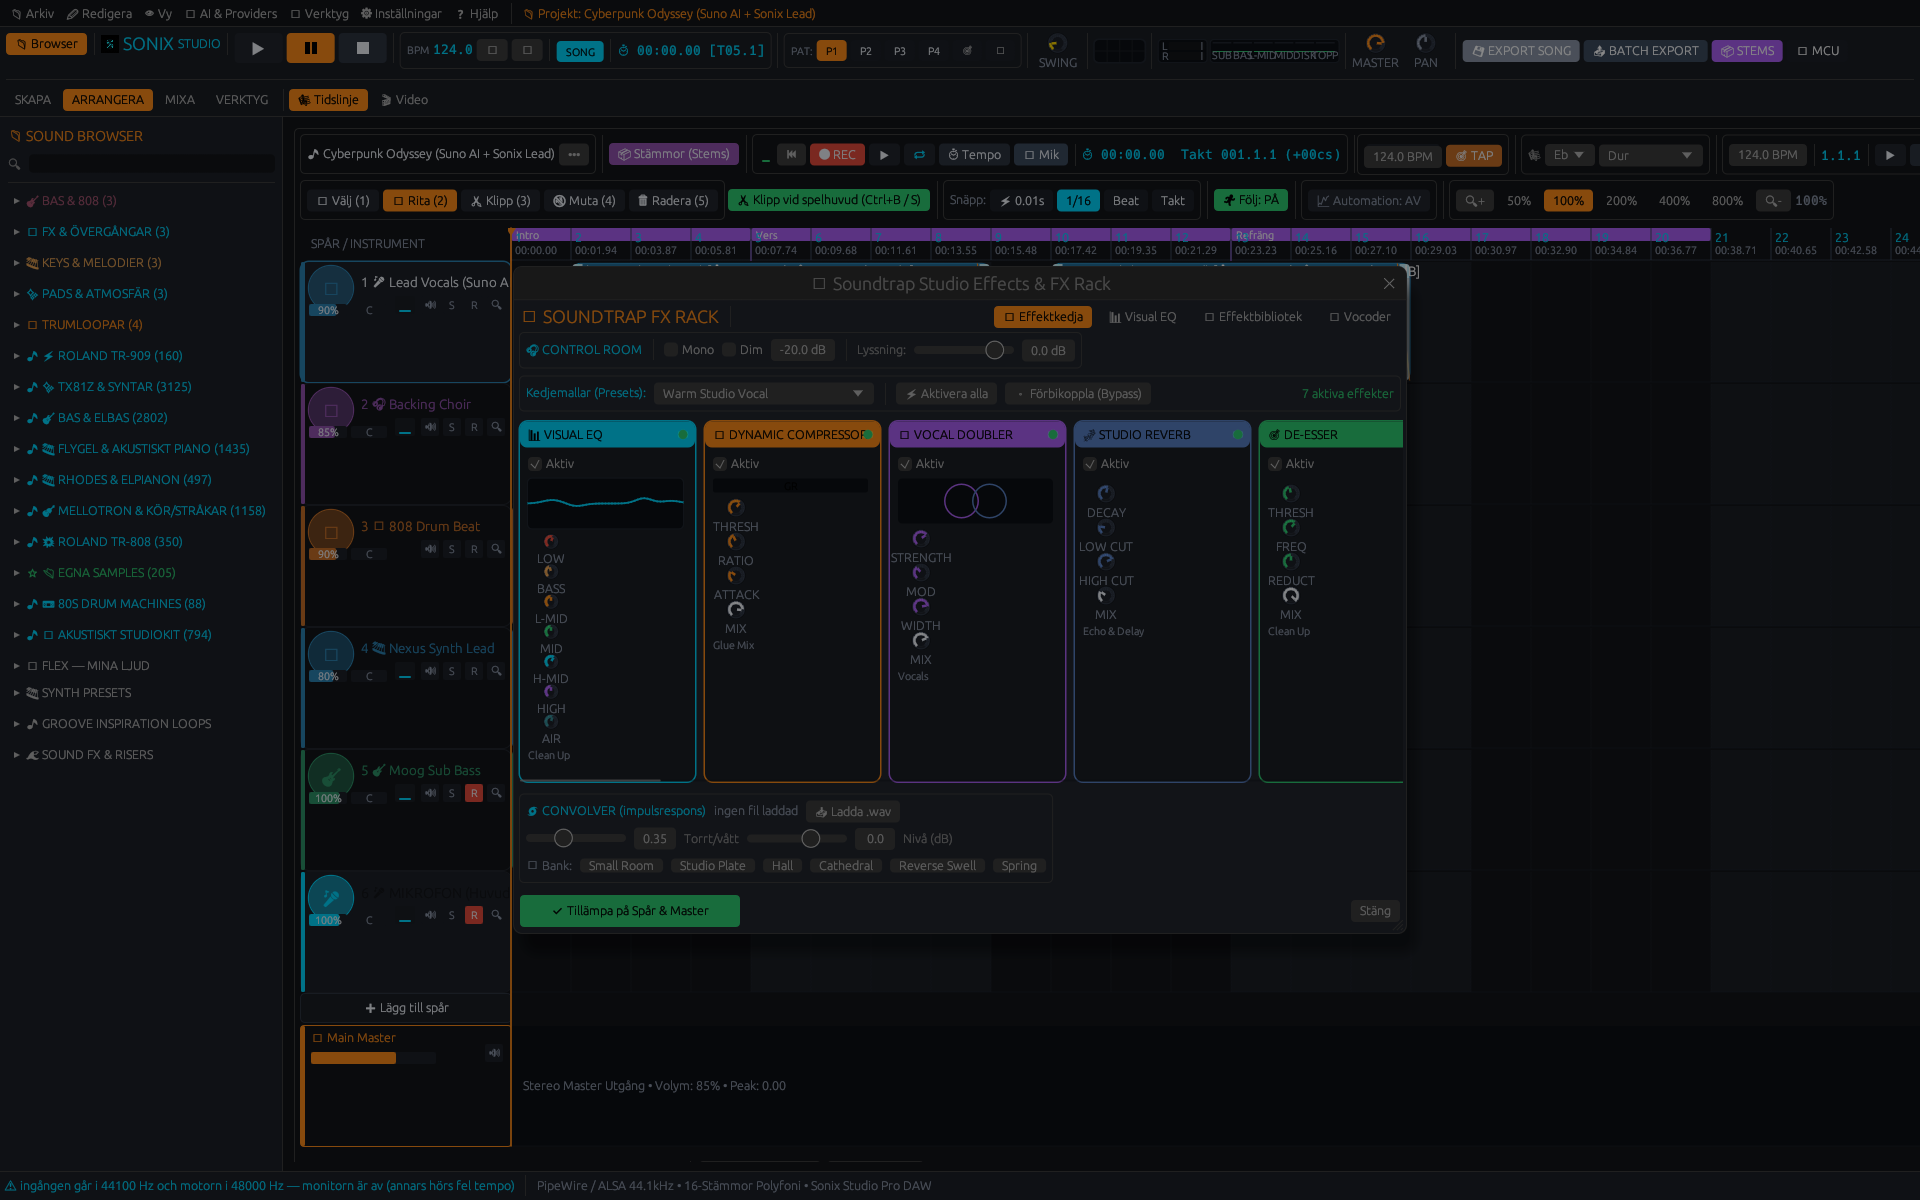
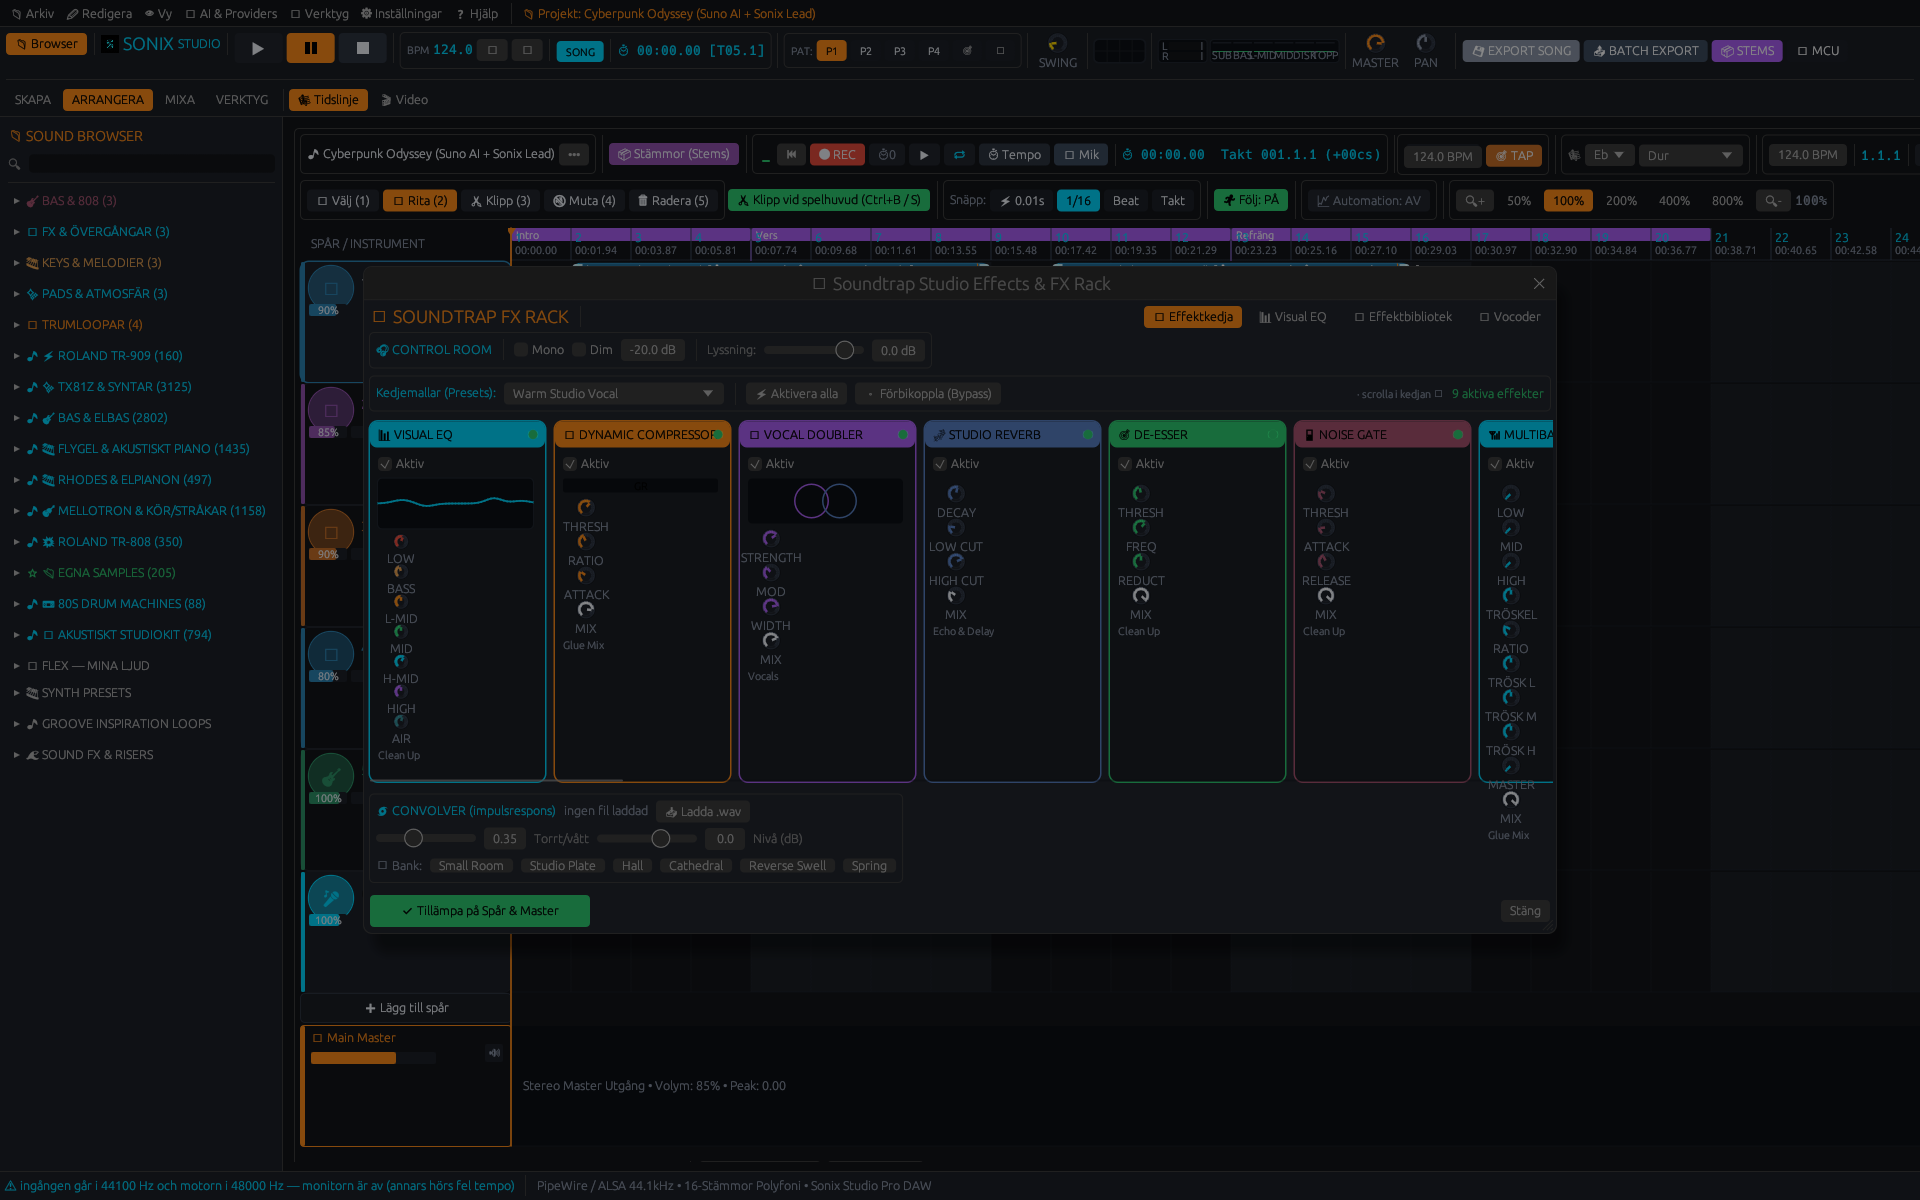
fix: pedalkedjan säger att den skrollar, och skärmdumpen visar de nya pedalerna (0.9.153)

diff --git a/src/i18n.rs b/src/i18n.rs
@@ -373,6 +373,7 @@ macro_rules! tstatus {
 // ====================================================================
 fn tr_en(key: &str) -> Option<&'static str> {
     Some(match key {
+        "· scrolla i kedjan →" => "· scroll the chain →",
         "🎵 Mät tempot i klippet" => "🎵 Measure the clip's tempo",
         "Läser takten ur ljudet och sätter klippets inspelningstempo, så att det följer projektets tempo. Krävs för klipp som importerades innan tempot mättes automatiskt." => "Reads the beat from the audio and sets the clip's recording tempo so it follows the project tempo. Needed for clips imported before tempo was measured automatically.",
         "🎚 Vocoder" => "🎚 Vocoder",
@@ -2867,6 +2868,7 @@ fn tr_en(key: &str) -> Option<&'static str> {
 // ====================================================================
 fn tr_da(key: &str) -> Option<&'static str> {
     Some(match key {
+        "· scrolla i kedjan →" => "· rul i kæden →",
         "🎵 Mät tempot i klippet" => "🎵 Mål klippets tempo",
         "Läser takten ur ljudet och sätter klippets inspelningstempo, så att det följer projektets tempo. Krävs för klipp som importerades innan tempot mättes automatiskt." => "Læser takten ud af lyden og sætter klippets indspilningstempo, så det følger projektets tempo. Kræves for klip importeret før tempoet blev målt automatisk.",
         "🎚 Vocoder" => "🎚 Vocoder",
@@ -5320,6 +5322,7 @@ fn tr_da(key: &str) -> Option<&'static str> {
 // ====================================================================
 fn tr_no(key: &str) -> Option<&'static str> {
     Some(match key {
+        "· scrolla i kedjan →" => "· rull i kjeden →",
         "🎵 Mät tempot i klippet" => "🎵 Mål tempoet i klippet",
         "Läser takten ur ljudet och sätter klippets inspelningstempo, så att det följer projektets tempo. Krävs för klipp som importerades innan tempot mättes automatiskt." => "Leser takten ut av lyden og setter klippets innspillingstempo, slik at det følger prosjektets tempo. Kreves for klipp importert før tempoet ble målt automatisk.",
         "🎚 Vocoder" => "🎚 Vocoder",
@@ -7773,6 +7776,7 @@ fn tr_no(key: &str) -> Option<&'static str> {
 // ====================================================================
 fn tr_de(key: &str) -> Option<&'static str> {
     Some(match key {
+        "· scrolla i kedjan →" => "· in der Kette scrollen →",
         "🎵 Mät tempot i klippet" => "🎵 Tempo des Clips messen",
         "Läser takten ur ljudet och sätter klippets inspelningstempo, så att det följer projektets tempo. Krävs för klipp som importerades innan tempot mättes automatiskt." => "Liest den Takt aus dem Audio und setzt das Aufnahmetempo des Clips, damit er dem Projekttempo folgt. Nötig für Clips, die vor der automatischen Messung importiert wurden.",
         "🎚 Vocoder" => "🎚 Vocoder",
@@ -10226,6 +10230,7 @@ fn tr_de(key: &str) -> Option<&'static str> {
 // ====================================================================
 fn tr_es(key: &str) -> Option<&'static str> {
     Some(match key {
+        "· scrolla i kedjan →" => "· desplaza la cadena →",
         "🎵 Mät tempot i klippet" => "🎵 Medir el tempo del clip",
         "Läser takten ur ljudet och sätter klippets inspelningstempo, så att det följer projektets tempo. Krävs för klipp som importerades innan tempot mättes automatiskt." => "Lee el pulso del audio y fija el tempo de grabación del clip para que siga el tempo del proyecto. Necesario para clips importados antes de que el tempo se midiera automáticamente.",
         "🎚 Vocoder" => "🎚 Vocoder",
@@ -12679,6 +12684,7 @@ fn tr_es(key: &str) -> Option<&'static str> {
 // ====================================================================
 fn tr_fr(key: &str) -> Option<&'static str> {
     Some(match key {
+        "· scrolla i kedjan →" => "· faites défiler la chaîne →",
         "🎵 Mät tempot i klippet" => "🎵 Mesurer le tempo du clip",
         "Läser takten ur ljudet och sätter klippets inspelningstempo, så att det följer projektets tempo. Krävs för klipp som importerades innan tempot mättes automatiskt." => "Lit le tempo dans l'audio et fixe le tempo d'enregistrement du clip pour qu'il suive le tempo du projet. Nécessaire pour les clips importés avant la mesure automatique.",
         "🎚 Vocoder" => "🎚 Vocoder",

diff --git a/src/ui/fx_rack_modal.rs b/src/ui/fx_rack_modal.rs
@@ -1152,7 +1152,7 @@ pub fn render_fx_rack_modal(
         .collapsible(false)
         .resizable(true)
         .anchor(egui::Align2::CENTER_CENTER, Vec2::ZERO)
-        .default_size(Vec2::new(880.0, 620.0))
+        .default_size(Vec2::new(1180.0, 680.0))
         .show(ctx, |ui| {
             ui.vertical(|ui| {
                 // ============================================================
@@ -1240,6 +1240,11 @@ pub fn render_fx_rack_modal(
                         ui.with_layout(egui::Layout::right_to_left(egui::Align::Center), |ui| {
                             let enabled_count = state.pedals.iter().filter(|p| p.enabled).count();
                             ui.label(egui::RichText::new(crate::tstatus!("{} aktiva effekter", enabled_count)).size(Theme::FONT_S).color(crate::ui::theme::palette().green()));
+                            // Kedjan är horisontell och rymmer inte nio pedaler i fönstret — säg det,
+                            // i stället för att låta resten se ut som att den inte finns.
+                            if enabled_count > 5 {
+                                ui.label(egui::RichText::new(crate::i18n::t("· scrolla i kedjan →")).size(Theme::FONT_XS).color(crate::ui::theme::palette().text_muted()));
+                            }
                         });
                     });
                 });
@@ -1362,6 +1367,9 @@ fn render_modular_pedal_chain(ui: &mut Ui, state: &mut FxRackState, master_gr_db
 
     egui::ScrollArea::horizontal()
         .max_height(400.0)
+        // Nio pedaler får inte plats i fönstret, och en osynlig skrollbar gör att resten ser ut
+        // att inte finnas (sett i skärmdump 25: fem kort synliga, nio aktiva).
+        .scroll_bar_visibility(egui::scroll_area::ScrollBarVisibility::AlwaysVisible)
         .show(ui, |ui| {
             ui.horizontal(|ui| {
                 ui.spacing_mut().item_spacing = Vec2::new(10.0, 0.0);

diff --git a/src/ui/app/project.rs b/src/ui/app/project.rs
@@ -1428,6 +1428,14 @@ pub fn apply_screenshot_target(&mut self, target: ScreenshotTarget) {
         }
         ScreenshotTarget::FxRackModal => {
             self.view_mode = ViewMode::PlaylistArranger;
+            // Två av de nya pedalerna påslagna, annars visar bilden bara standardkedjan och
+            // läsaren kan inte se att de finns.
+            for pedal in &mut self.fx_rack_state.pedals {
+                if matches!(pedal.id, "multiband" | "time_curve") {
+                    pedal.enabled = true;
+                }
+            }
+            self.fx_rack_state.active_tab = 0;
             self.show_fx_rack_modal = true;
         }
         ScreenshotTarget::VocoderBands => {

diff --git a/CHANGELOG.md b/CHANGELOG.md
@@ -7,6 +7,16 @@ and this project adheres to [Semantic Versioning](https://semver.org/spec/v2.0.0
 
 ## [Unreleased]
 
+### Changed — pedalkedjan går att upptäcka (0.9.153)
+
+- **Nio pedaler, fem synliga kort.** Fönstret var 880 px brett och kedjan skrollar horisontellt,
+  men skrollbarheten syntes inte och inget sade att det fanns mer — i skärmdump 25 stod det
+  "9 aktiva effekter" ovanför fem kort. Nu är fönstret 1180 px, skrollbarheten är alltid synlig och
+  raden säger **· scrolla i kedjan →** när fler än fem är påslagna. Mätt i ny skärmdump: sju kort
+  synliga, multibandspedalen med.
+- **Skärmdumpen visar de nya pedalerna.** 25-målet slår på MULTIBAND COMP och TIME CURVE, annars
+  visade bilden bara standardkedjan och läsaren kunde inte se att de finns.
+
 ### Fixed — exporten följer tempokartan (0.9.152)
 
 - **`RenderSpec` bär nu `tempo_points`.** Stegklockan räknar sin längd ur kartan
